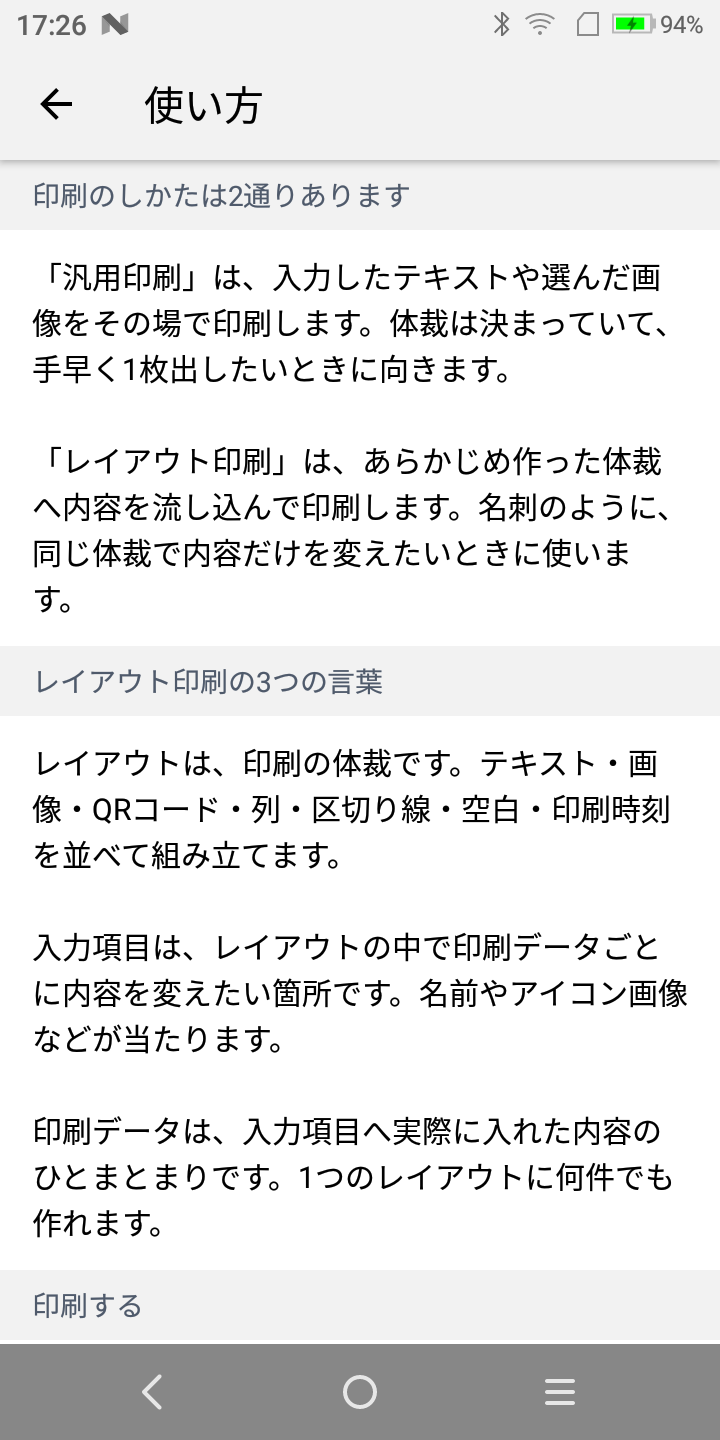
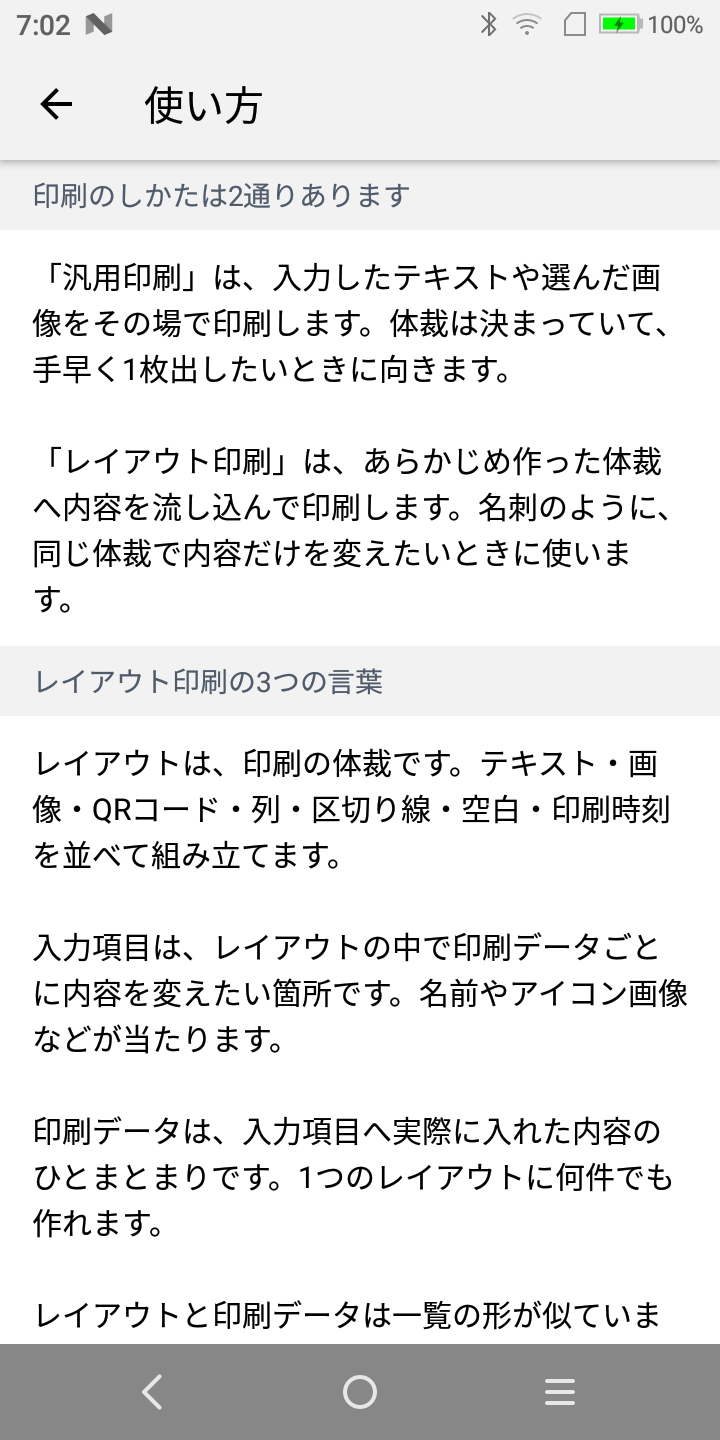
docs: アイコンの説明を足し、画面写真を撮り直す
レイアウトと印刷データを見分けるアイコンを足したため、アプリ内の「使い方」と
`docs/usage.md` に一文を添える。あわせて、アイコンが写る4画面と、文言を変えた
「使い方」の写真を撮り直す。

写真はアプリを入れ直した直後の初期データで撮っている。ホームの「開発者紹介」に
「名刺（シンプル）」と出るようになり、本文の表と一致するようになった。

diff --git a/src/screens/Guide/sections.ts b/src/screens/Guide/sections.ts
@@ -27,6 +27,8 @@ export const guideSections: GuideSection[] = [
       '入力項目は、レイアウトの中で印刷データごとに内容を変えたい箇所です。名前やアイコン画像などが当たります。',
       '',
       '印刷データは、入力項目へ実際に入れた内容のひとまとまりです。1つのレイアウトに何件でも作れます。',
+      '',
+      'レイアウトと印刷データは一覧の形が似ています。取り違えないよう、行の左にアイコンを添えています。枠のアイコンがレイアウト、紙のアイコンが印刷データです。',
     ].join('\n'),
   },
   {

diff --git a/docs/usage.md b/docs/usage.md
@@ -35,6 +35,8 @@ SUNMI端末のプリンターで印刷するアプリです。この文書は 1.
 | 入力項目 | レイアウトのうち、印刷データごとに内容を変えたい箇所。名前やアイコン画像など |
 | 印刷データ | 入力項目へ実際に入れた内容のひとまとまり。1つのレイアウトに何件でも作れます |
 
+レイアウトと印刷データは一覧の形が似ています。取り違えないよう、行の左にアイコンを添えています。枠のアイコンがレイアウト、紙のアイコンが印刷データです。
+
 初回起動時に、名刺レイアウトが2種類と、それぞれの印刷データが入っています。
 
 | レイアウト | 体裁 | 印刷データ |
